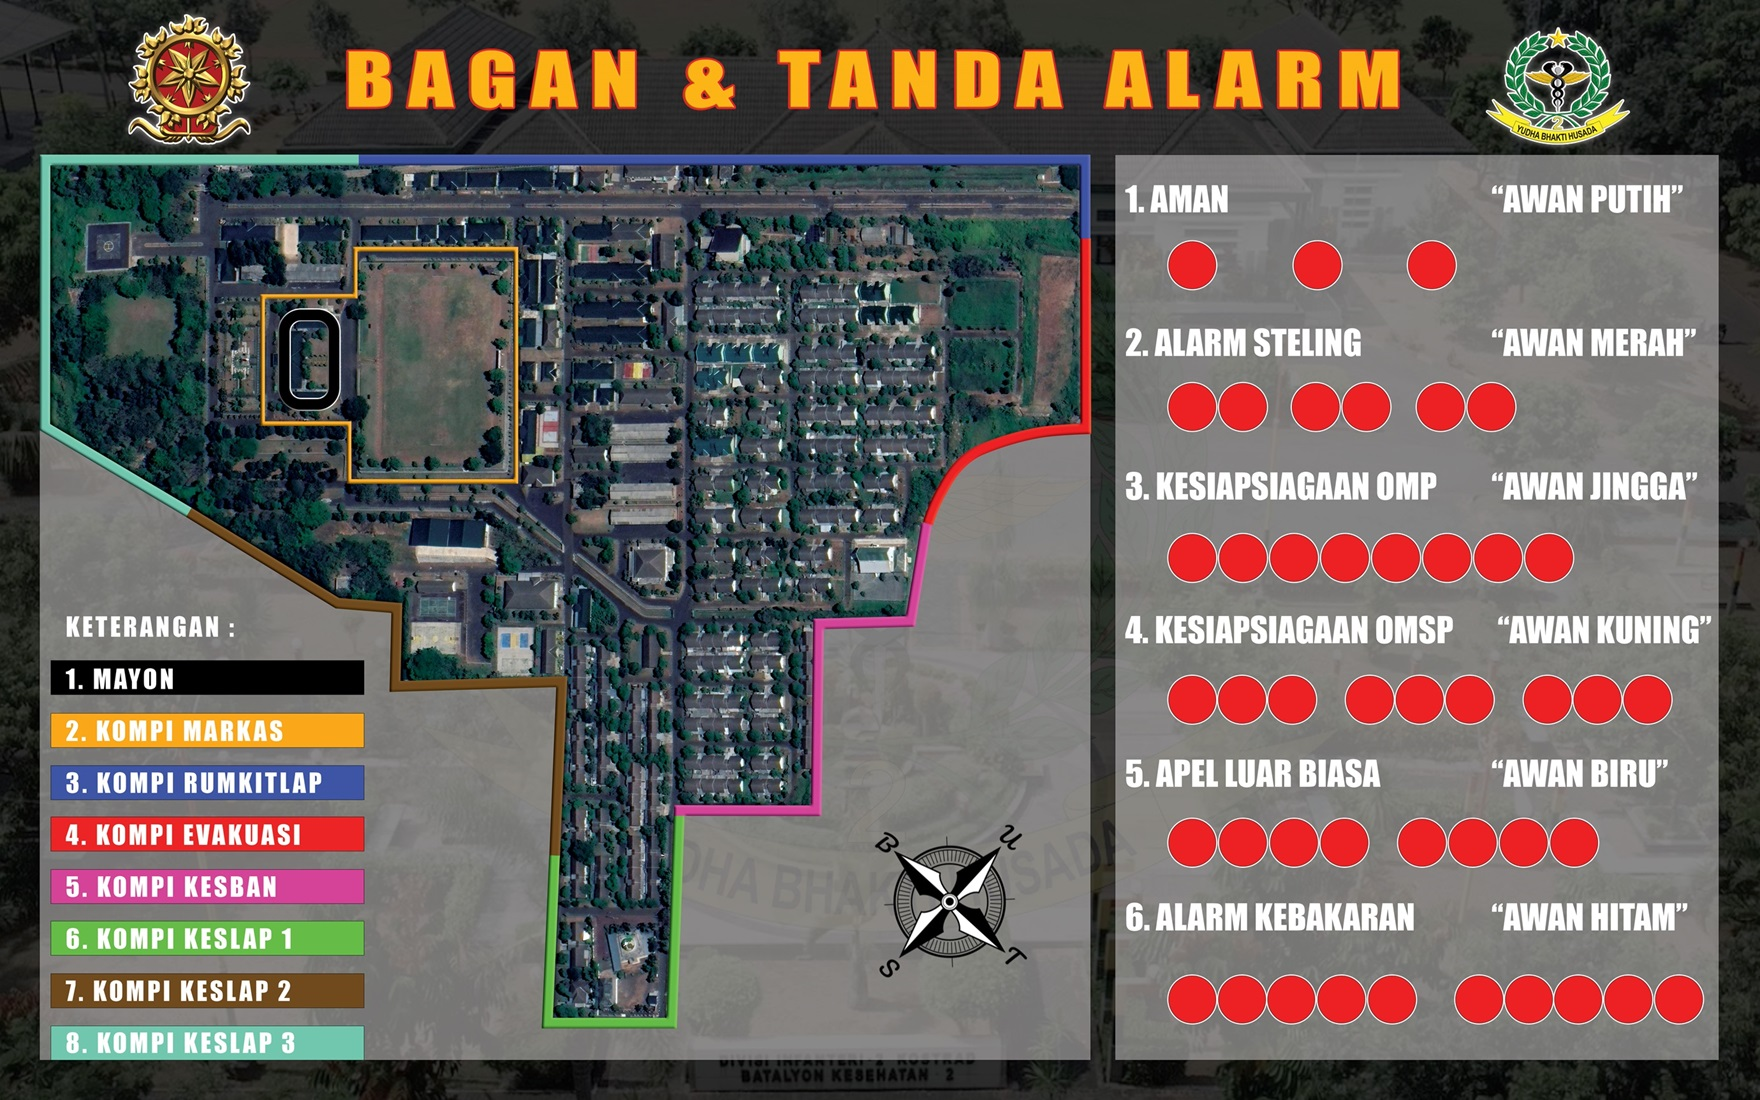
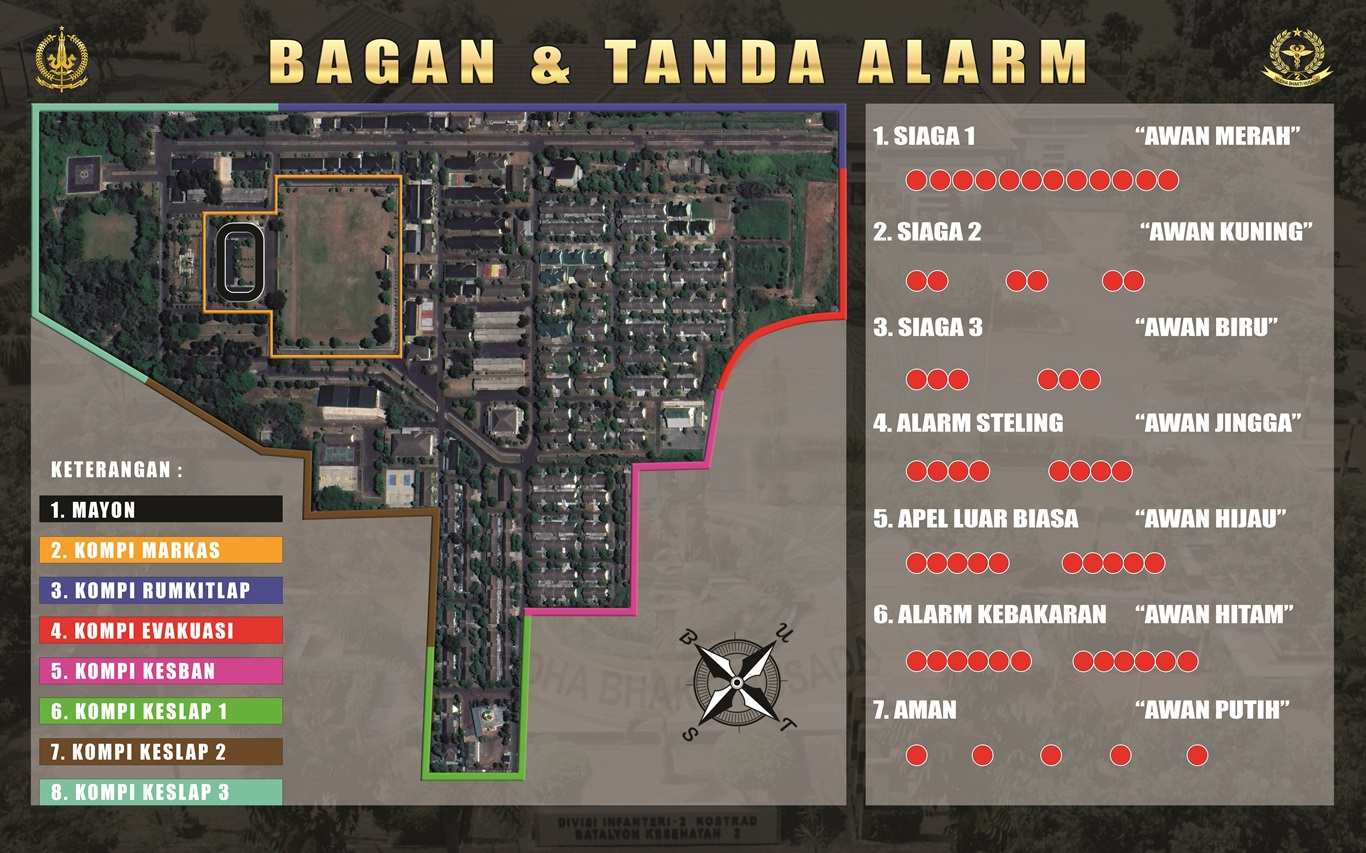
rubah bagan alarm

diff --git a/README.md b/README.md
@@ -38,3 +38,10 @@ Check out our [Next.js deployment documentation](https://nextjs.org/docs/app/bui
 =======
 # WEBSITE-SOPS-YONKES-2
 >>>>>>> 4bf85f78c578b1e36af49a215bfcce6d52865608
+
+Perintah Git Cepat
+Untuk mempermudah pembaruan kode ke repositori:
+
+Bash
+# Menambah, commit, dan push perubahan sekaligus
+git add . && git commit -m "Deskripsi perubahan Anda di sini" && git push origin main
